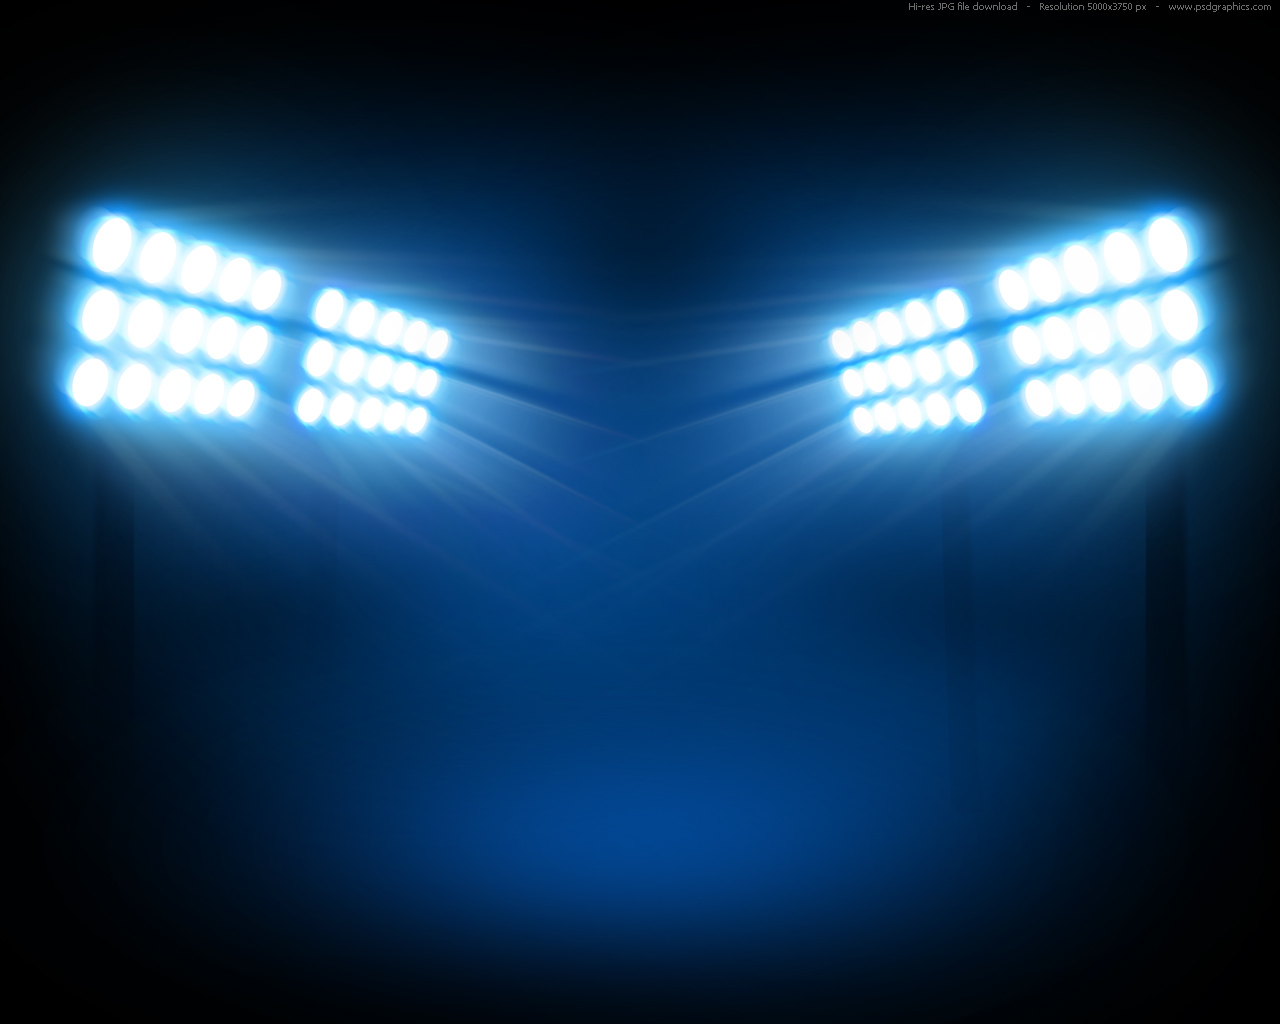
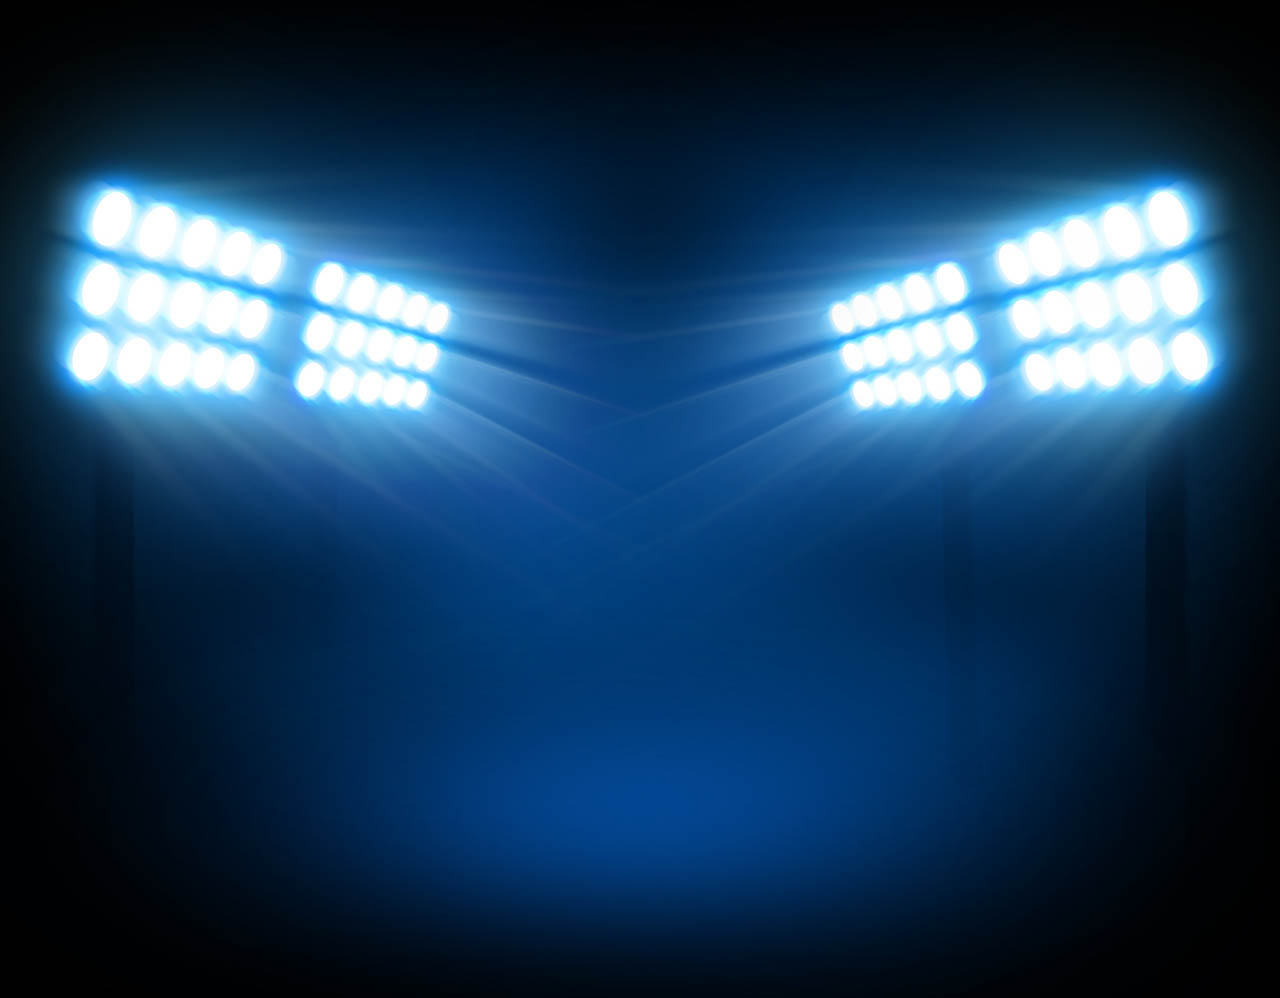
change some styling

Changed region(s): [[0.5625, 0.1553, 0.9688, 0.4659], [0.0312, 0.1553, 0.4375, 0.4659]]

diff --git a/public/css/bootstrap/home.css b/public/css/bootstrap/home.css
@@ -27,7 +27,9 @@ a:hover {
 html,
 body {
   height: 100%;
-  background-color: #229999;
+  background-image: url(../../stadiumBack.jpg);
+  background-repeat: no-repeat;
+  background-size: 100% 100%;
 }
 body {
   color: #fff;

diff --git a/public/css/style.css b/public/css/style.css
@@ -39,6 +39,7 @@ body {
   margin: 0;
   padding: 0;
   background-image: url(../stadium_night.jpg);
+  background-size: 100%;
   font-family: 'Helvetica', 'Arial', 'sans-serif';
 }
 div {

diff --git a/public/css/bootstrap/about.css b/public/css/bootstrap/about.css
@@ -5,7 +5,7 @@
 body {
   padding-bottom: 40px;
   color: #fffffa;
-  background-color: #229999;
+  background-color: #012148;
   box-shadow: inset 0 0 100px rgba(110,110,0,.5);
 }
 

diff --git a/public/css/bootstrap/faq.css b/public/css/bootstrap/faq.css
@@ -5,7 +5,7 @@
 body {
   padding-bottom: 40px;
   color: #fffffa;
-  background-color: #229999;
+  background-color: #012148;
   box-shadow: inset 0 0 100px rgba(110,110,0,.5);
 }
 

diff --git a/public/css/bootstrap/features.css b/public/css/bootstrap/features.css
@@ -5,7 +5,7 @@
 body {
   padding-bottom: 40px;
   color: #fffffa;
-  background-color: #229999;
+  background-color: #012148;
   box-shadow: inset 0 0 100px rgba(110,110,0,.5);
 }
 

diff --git a/public/css/bootstrap/rules.css b/public/css/bootstrap/rules.css
@@ -5,7 +5,7 @@
 body {
   padding-bottom: 40px;
   color: #fffffa;
-  background-color: #229999;
+  background-color: #012148;
   box-shadow: inset 0 0 100px rgba(110,110,0,.5);
 }
 

diff --git a/public/css/bootstrap/contact.css b/public/css/bootstrap/contact.css
@@ -27,7 +27,7 @@ a:hover {
 html,
 body {
   height: 100%;
-  background-color: #229999;
+  background-color: #012148;
 }
 body {
   color: #fff;
